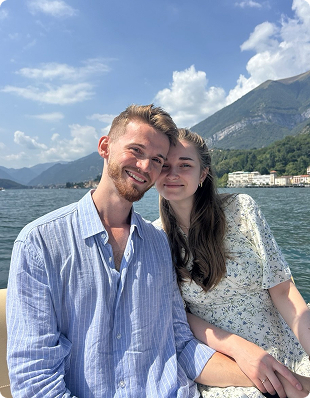
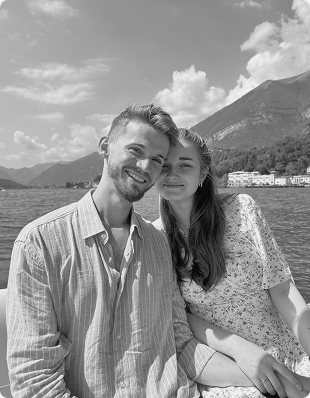
Последние фиксы и чб превью фото

diff --git a/index.html b/index.html
@@ -609,7 +609,7 @@
         <img src="Location.svg" alt="La Dolce Vita House">
       </div>
       <p class="t-body mb-gc fi d2">
-        Для всех желающих будет организован трансфер из Минска на усадьбу и обратно.
+        Для желающих будет организован трансфер из Минска на усадьбу и обратно.
       </p>
       <p class="t-body mb-gc fi d2">
         Если вы планируете добираться самостоятельно, то для более удобного маршрута рекомендуем строить путь через деревню Яченка.
@@ -697,7 +697,7 @@
     <!-- BLOCK 5: WISHES -->
     <section id="wishes" class="section">
       <h2 class="t-hl mb-gt fi">Пожелания</h2>
-      <p class="t-body fi d1">Мы будем рады видеть ваших детей и питомцев — если планируете прийти с ними, пожалуйста, отметьте это в анкете. Обратите внимание, что на локации нет игровой зоны для маленьких гостей.</p>
+      <p class="t-body fi d1">Мы будем рады видеть ваших детей и питомцев — если планируете прийти с ними, пожалуйста, отметьте это в анкете, приведенной в конце страницы. Обратите внимание, что на локации нет игровой зоны для маленьких гостей.</p>
       <div class="sep fi d1"><img src="separator.svg" alt=""></div>
       <p class="t-body fi d2">Просим не дарить цветы: после свадьбы мы уезжаем и не успеем насладиться их красотой.</p>
       <div class="sep fi d2"><img src="separator.svg" alt=""></div>
@@ -720,8 +720,9 @@
       </div>
       <div class="sep fi d3"><img src="separator.svg" alt=""></div>
       <div class="fi d4">
-        <p class="t-body mb-gc">Мы также создали телеграм-чат нашего праздника, где можно будет узнать новую информацию, а также поделиться фото и видео в день свадьбы и после.</p>
+        <p class="t-body mb-gc">Еще мы создали телеграм-чат нашего праздника, где можно будет узнать новую информацию, а также поделиться фото и видео в день свадьбы и после.</p>
         <a href="https://t.me/+0gbHtr8Ke9plZDhi" target="_blank" rel="noopener noreferrer" class="btn">Присоединиться к чату <span class="btn-arrow">→</span></a>
+        <p class="t-body mt-gc">Если вы не используете телеграм для связи, сообщите нам об этом, и мы будем держать вас в курсе новостей другим способом.</p>
       </div>
     </section>
 
@@ -729,7 +730,7 @@
     <section id="rsvp" class="section">
       <h2 class="rsvp-hl mb-gt fi">Подтверждение</h2>
       <p class="t-body mb-gc fi d1">
-        Дорогой гость, просим сообщить о своём присутствии в анкете ниже или другим удобным способом до 1 августа.
+        Дорогой гость, просим сообщить о своём присутствии в анкете ниже или другим удобным способом до 1 июля.
       </p>
       <p class="t-body mb-gc fi d1">
         Мы создали небольшую анкету. Заполните её, пожалуйста, чтобы мы могли получить ответ и учесть ваши предпочтения в день праздника.
